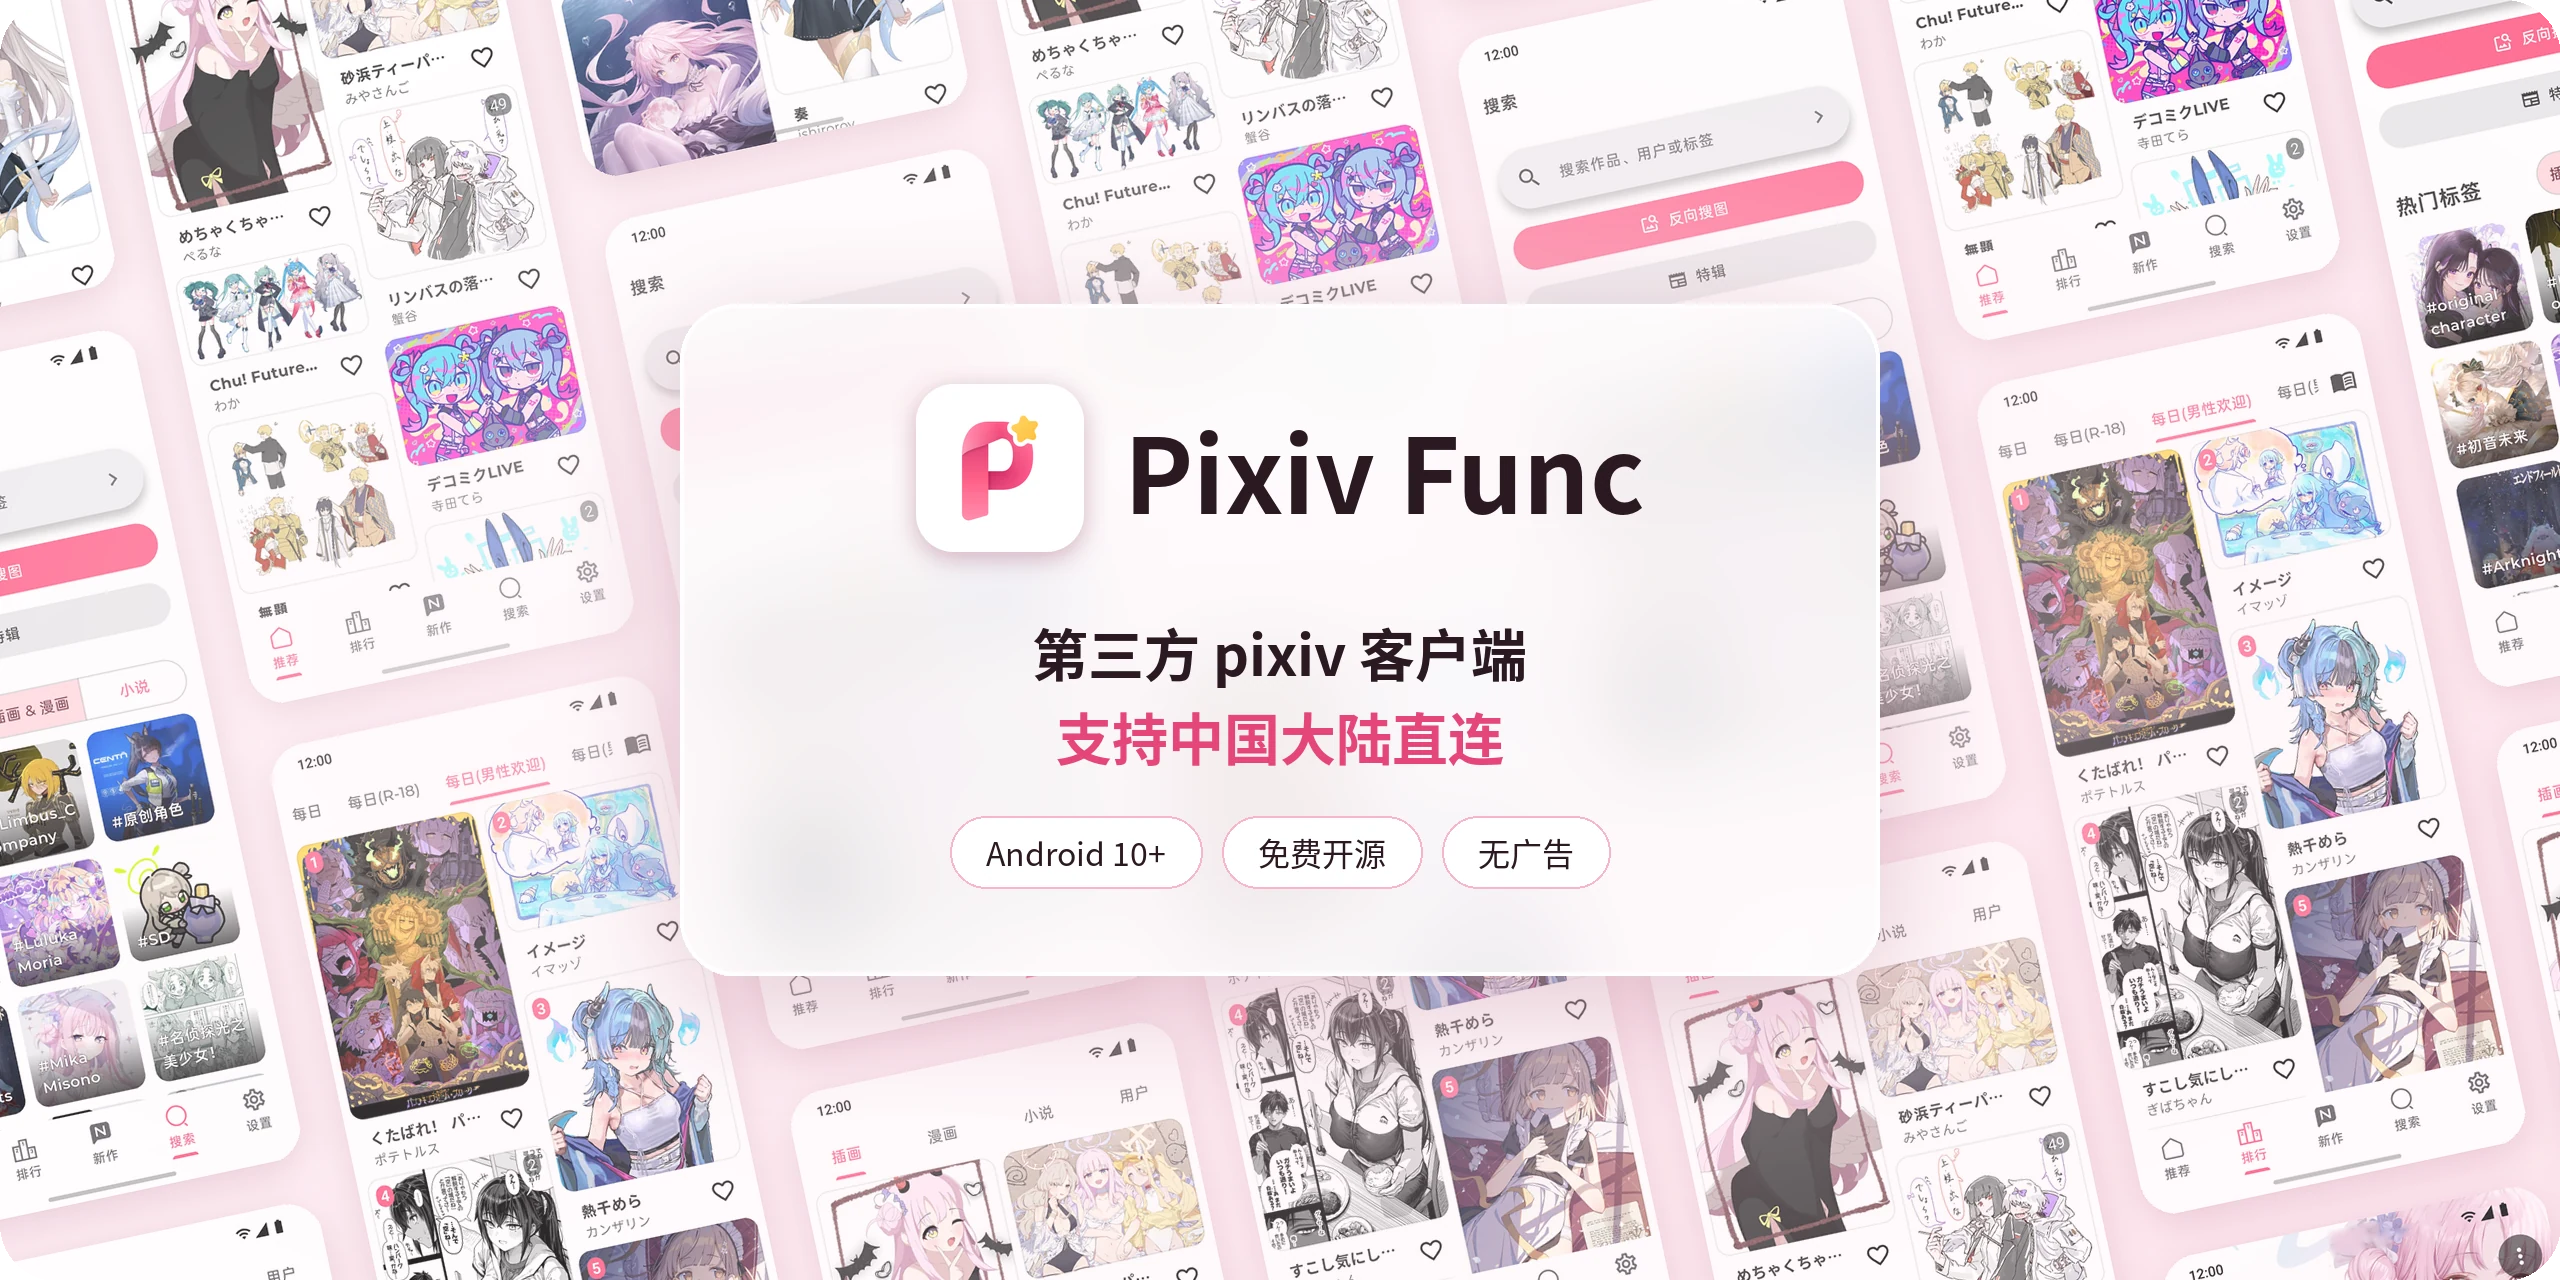
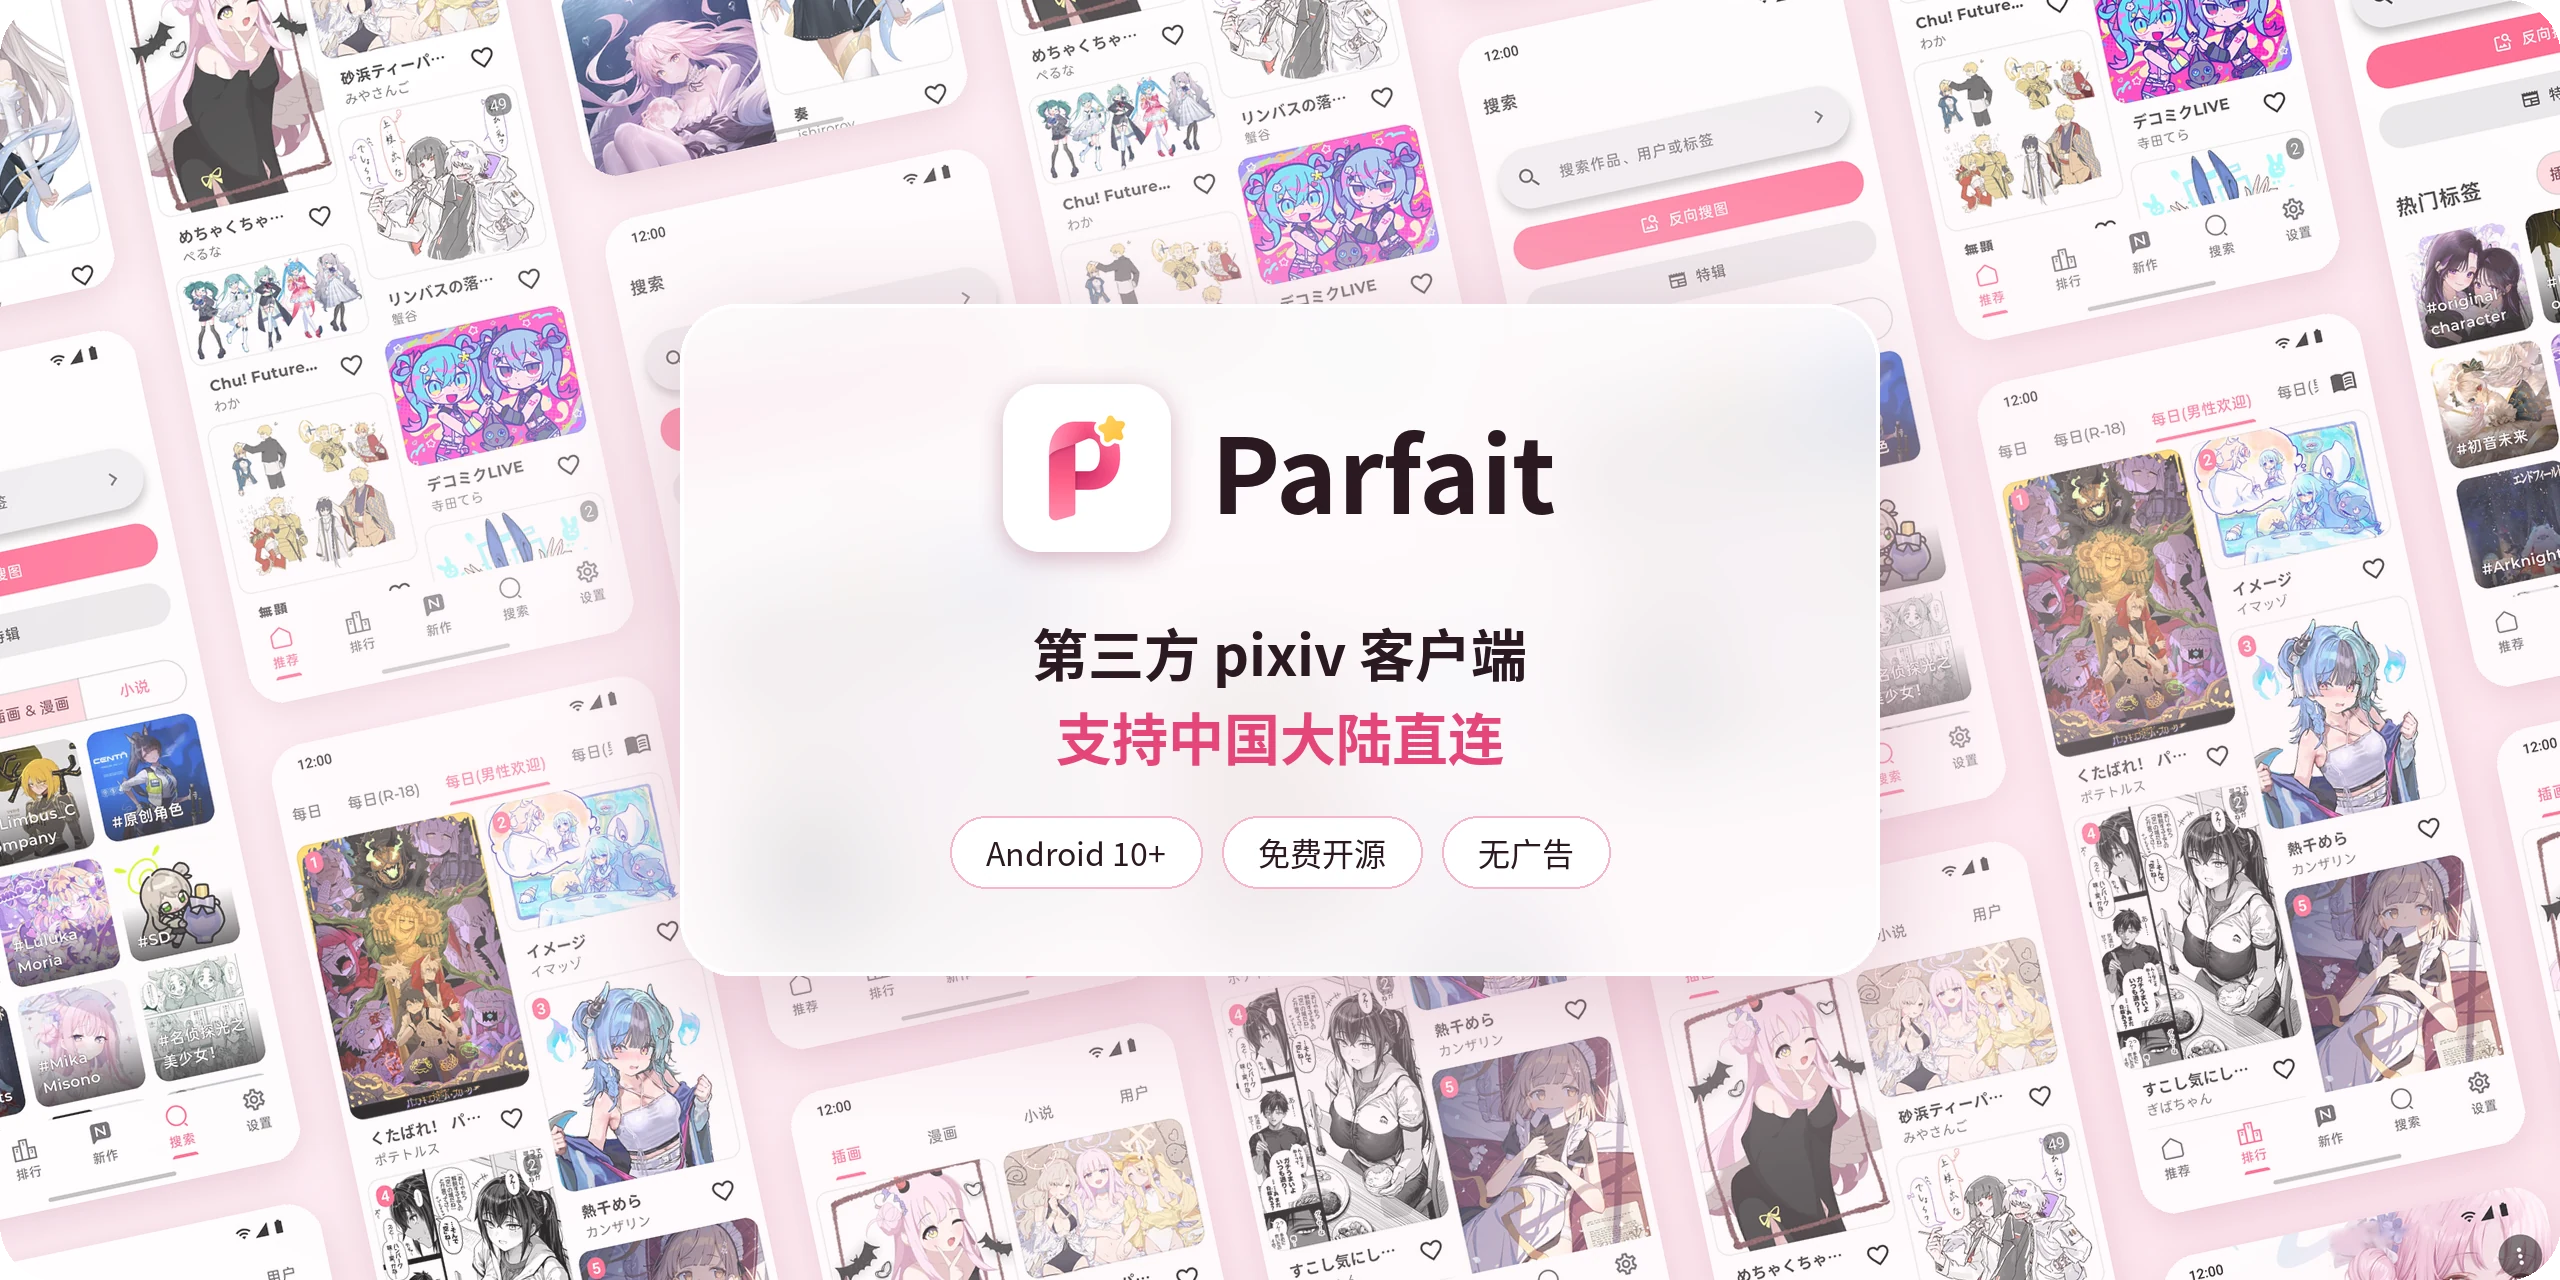
docs(readme): rebrand the README as Parfait

Changed region(s): [[0.3438, 0.3125, 0.6562, 0.4375]]

diff --git a/tool/build_readme_assets.py b/tool/build_readme_assets.py
@@ -18,7 +18,7 @@ Outputs in .github/readme/:
   social-preview.jpg   the same banner at 1280x640, uploaded by hand in the
                        repository settings
 
-Usage: python tool/build_readme_assets.py --raw ~/pixiv-func-readme-work/raw
+Usage: python tool/build_readme_assets.py --raw ~/parfait-readme-work/raw
 Requirements: tool/requirements-app-icon.txt (numpy, pillow, scipy).
 """
 
@@ -143,7 +143,7 @@ CARD_SIZE, CARD_RADIUS = (600, 336), 28
 CARD_BLUR, CARD_TINT = 22, 0.72
 # Offsets from the card's top edge; text positions are baselines.
 CARD_ICON_TOP, CARD_ICON_SIZE, CARD_ICON_GAP = 40, 84, 20
-NAME = "Pixiv Func"
+NAME = "Parfait"
 NAME_PX = 52
 HEADLINE = ("第三方 pixiv 客户端", "支持中国大陆直连")
 HEADLINE_TOP, HEADLINE_PX, HEADLINE_LEADING = 186, 28, 42
@@ -393,7 +393,7 @@ def main() -> int:
     parser.add_argument("--raw", type=Path, required=True)
     parser.add_argument("--cache", type=Path,
                         default=Path(os.environ.get("XDG_CACHE_HOME", Path.home() / ".cache"))
-                        / "pixiv-func-readme")
+                        / "parfait-readme")
     parser.add_argument("--flutter-root", type=Path)
     args = parser.parse_args()
 
